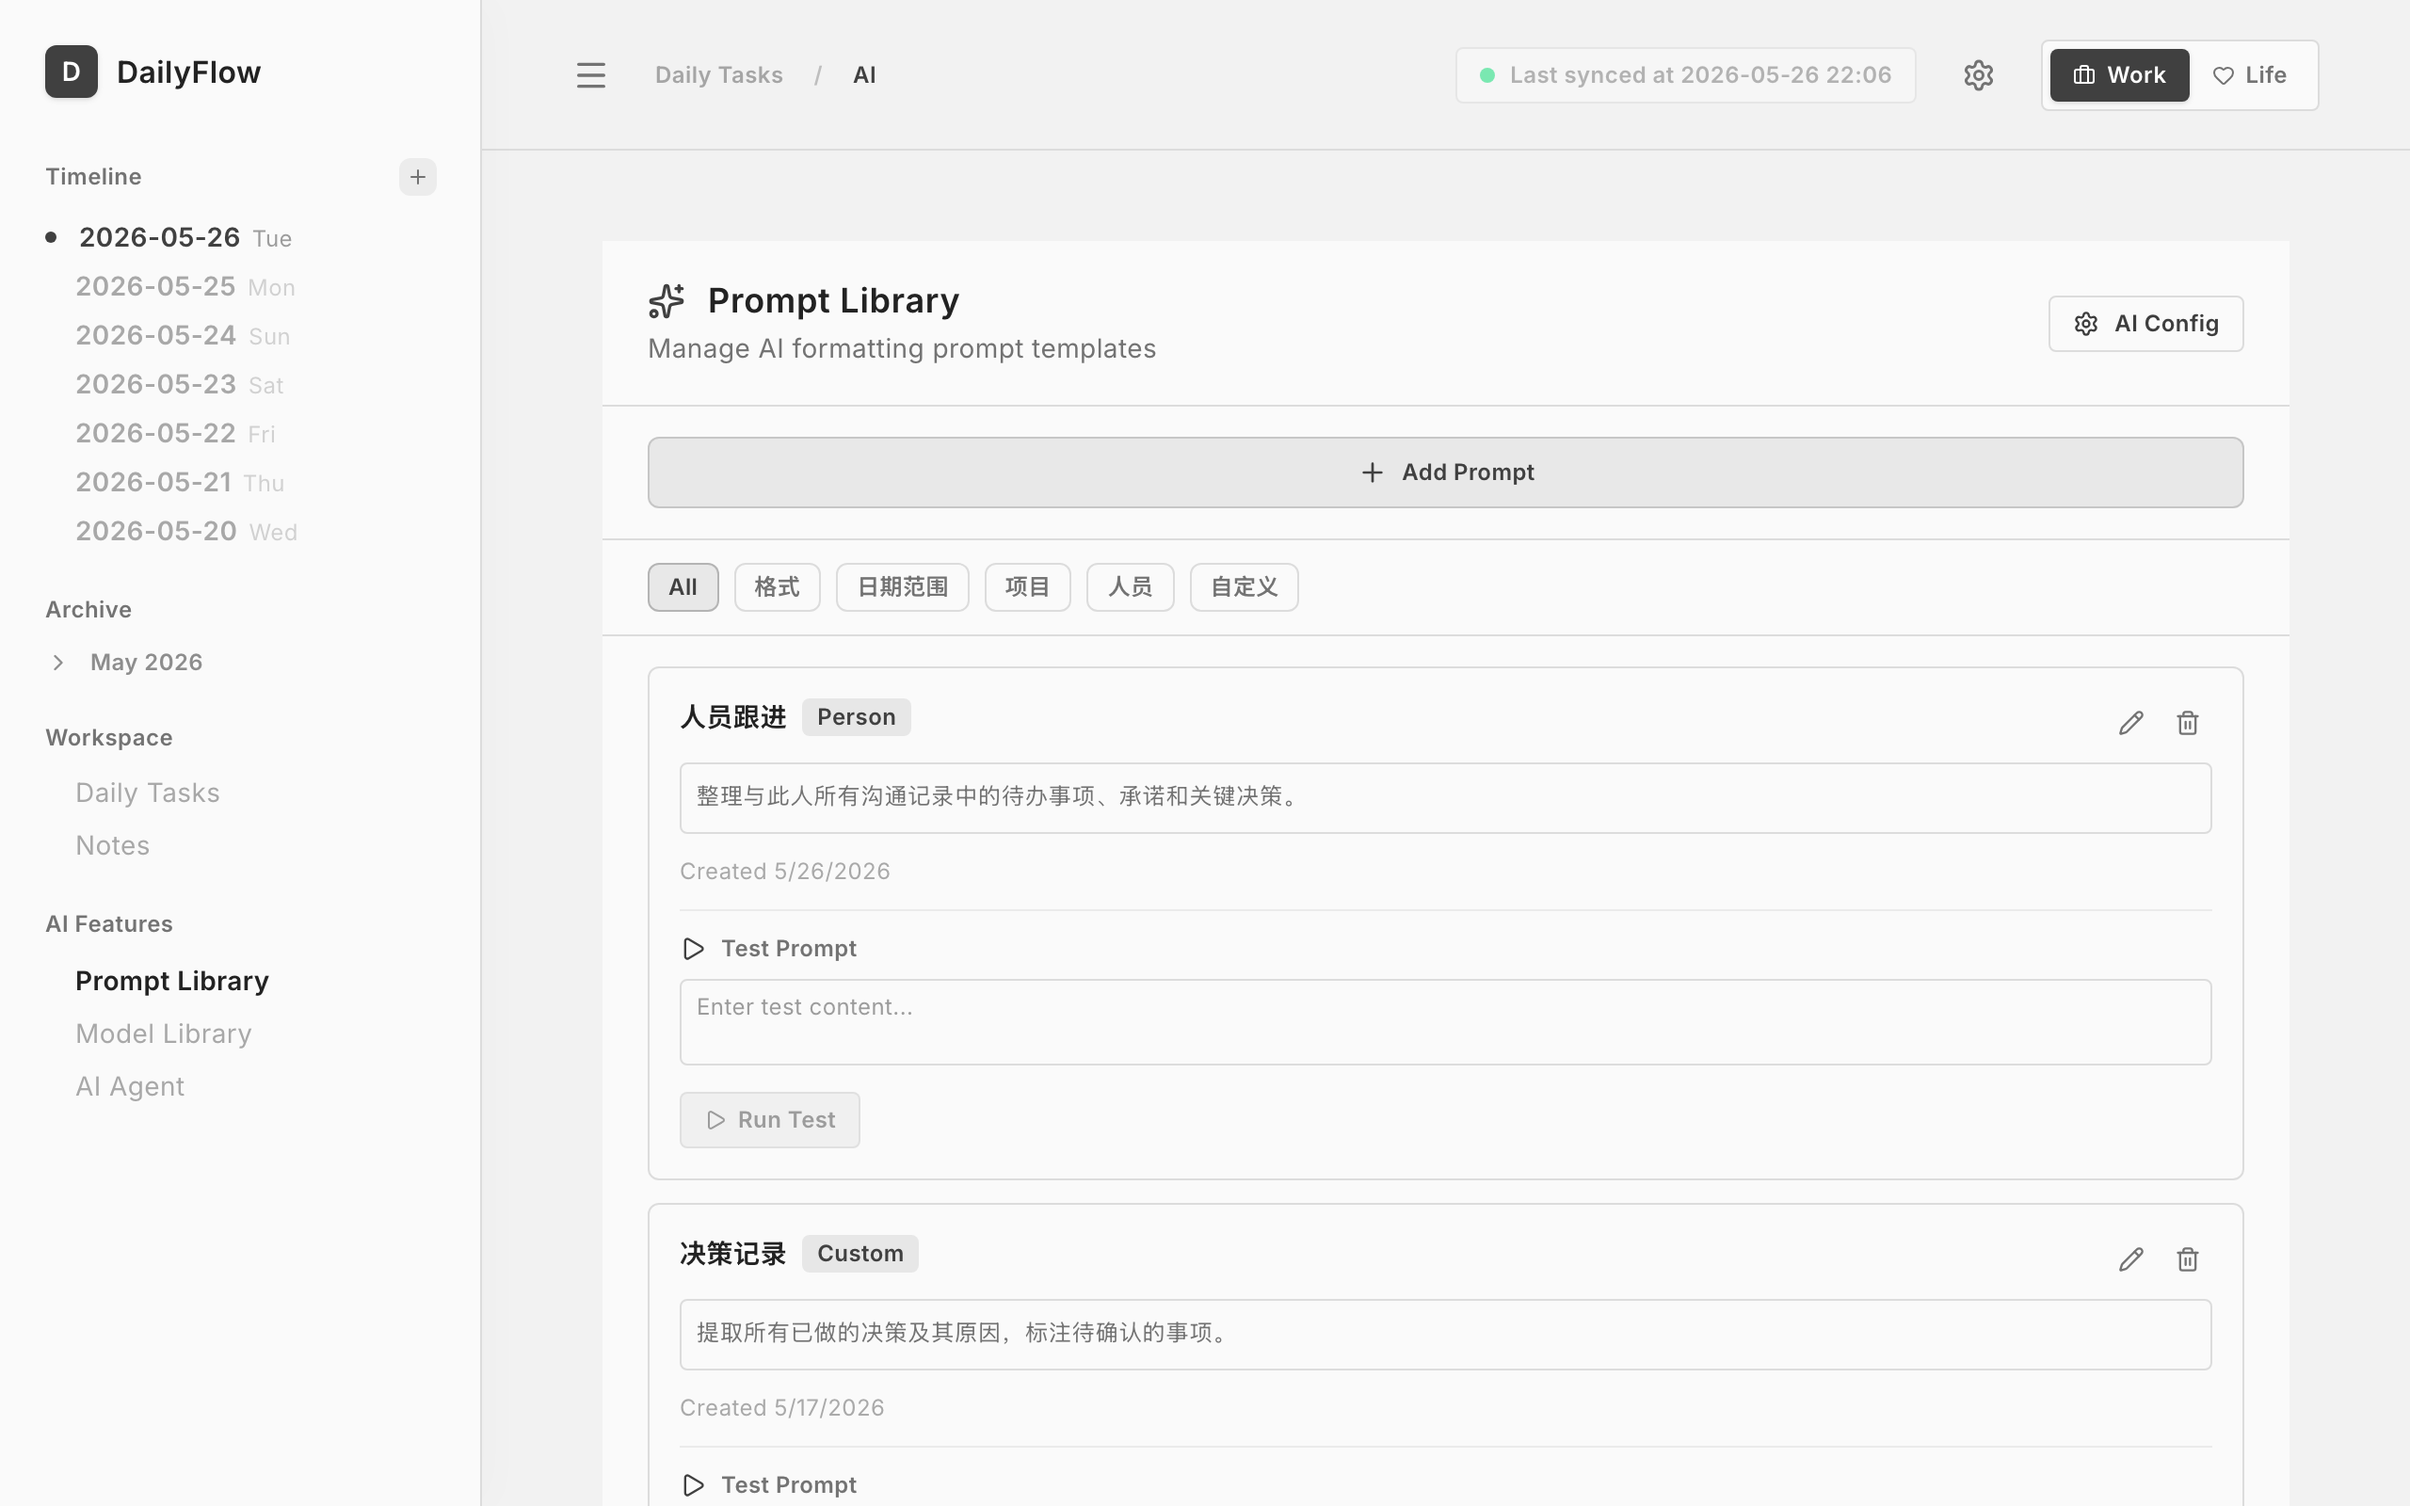
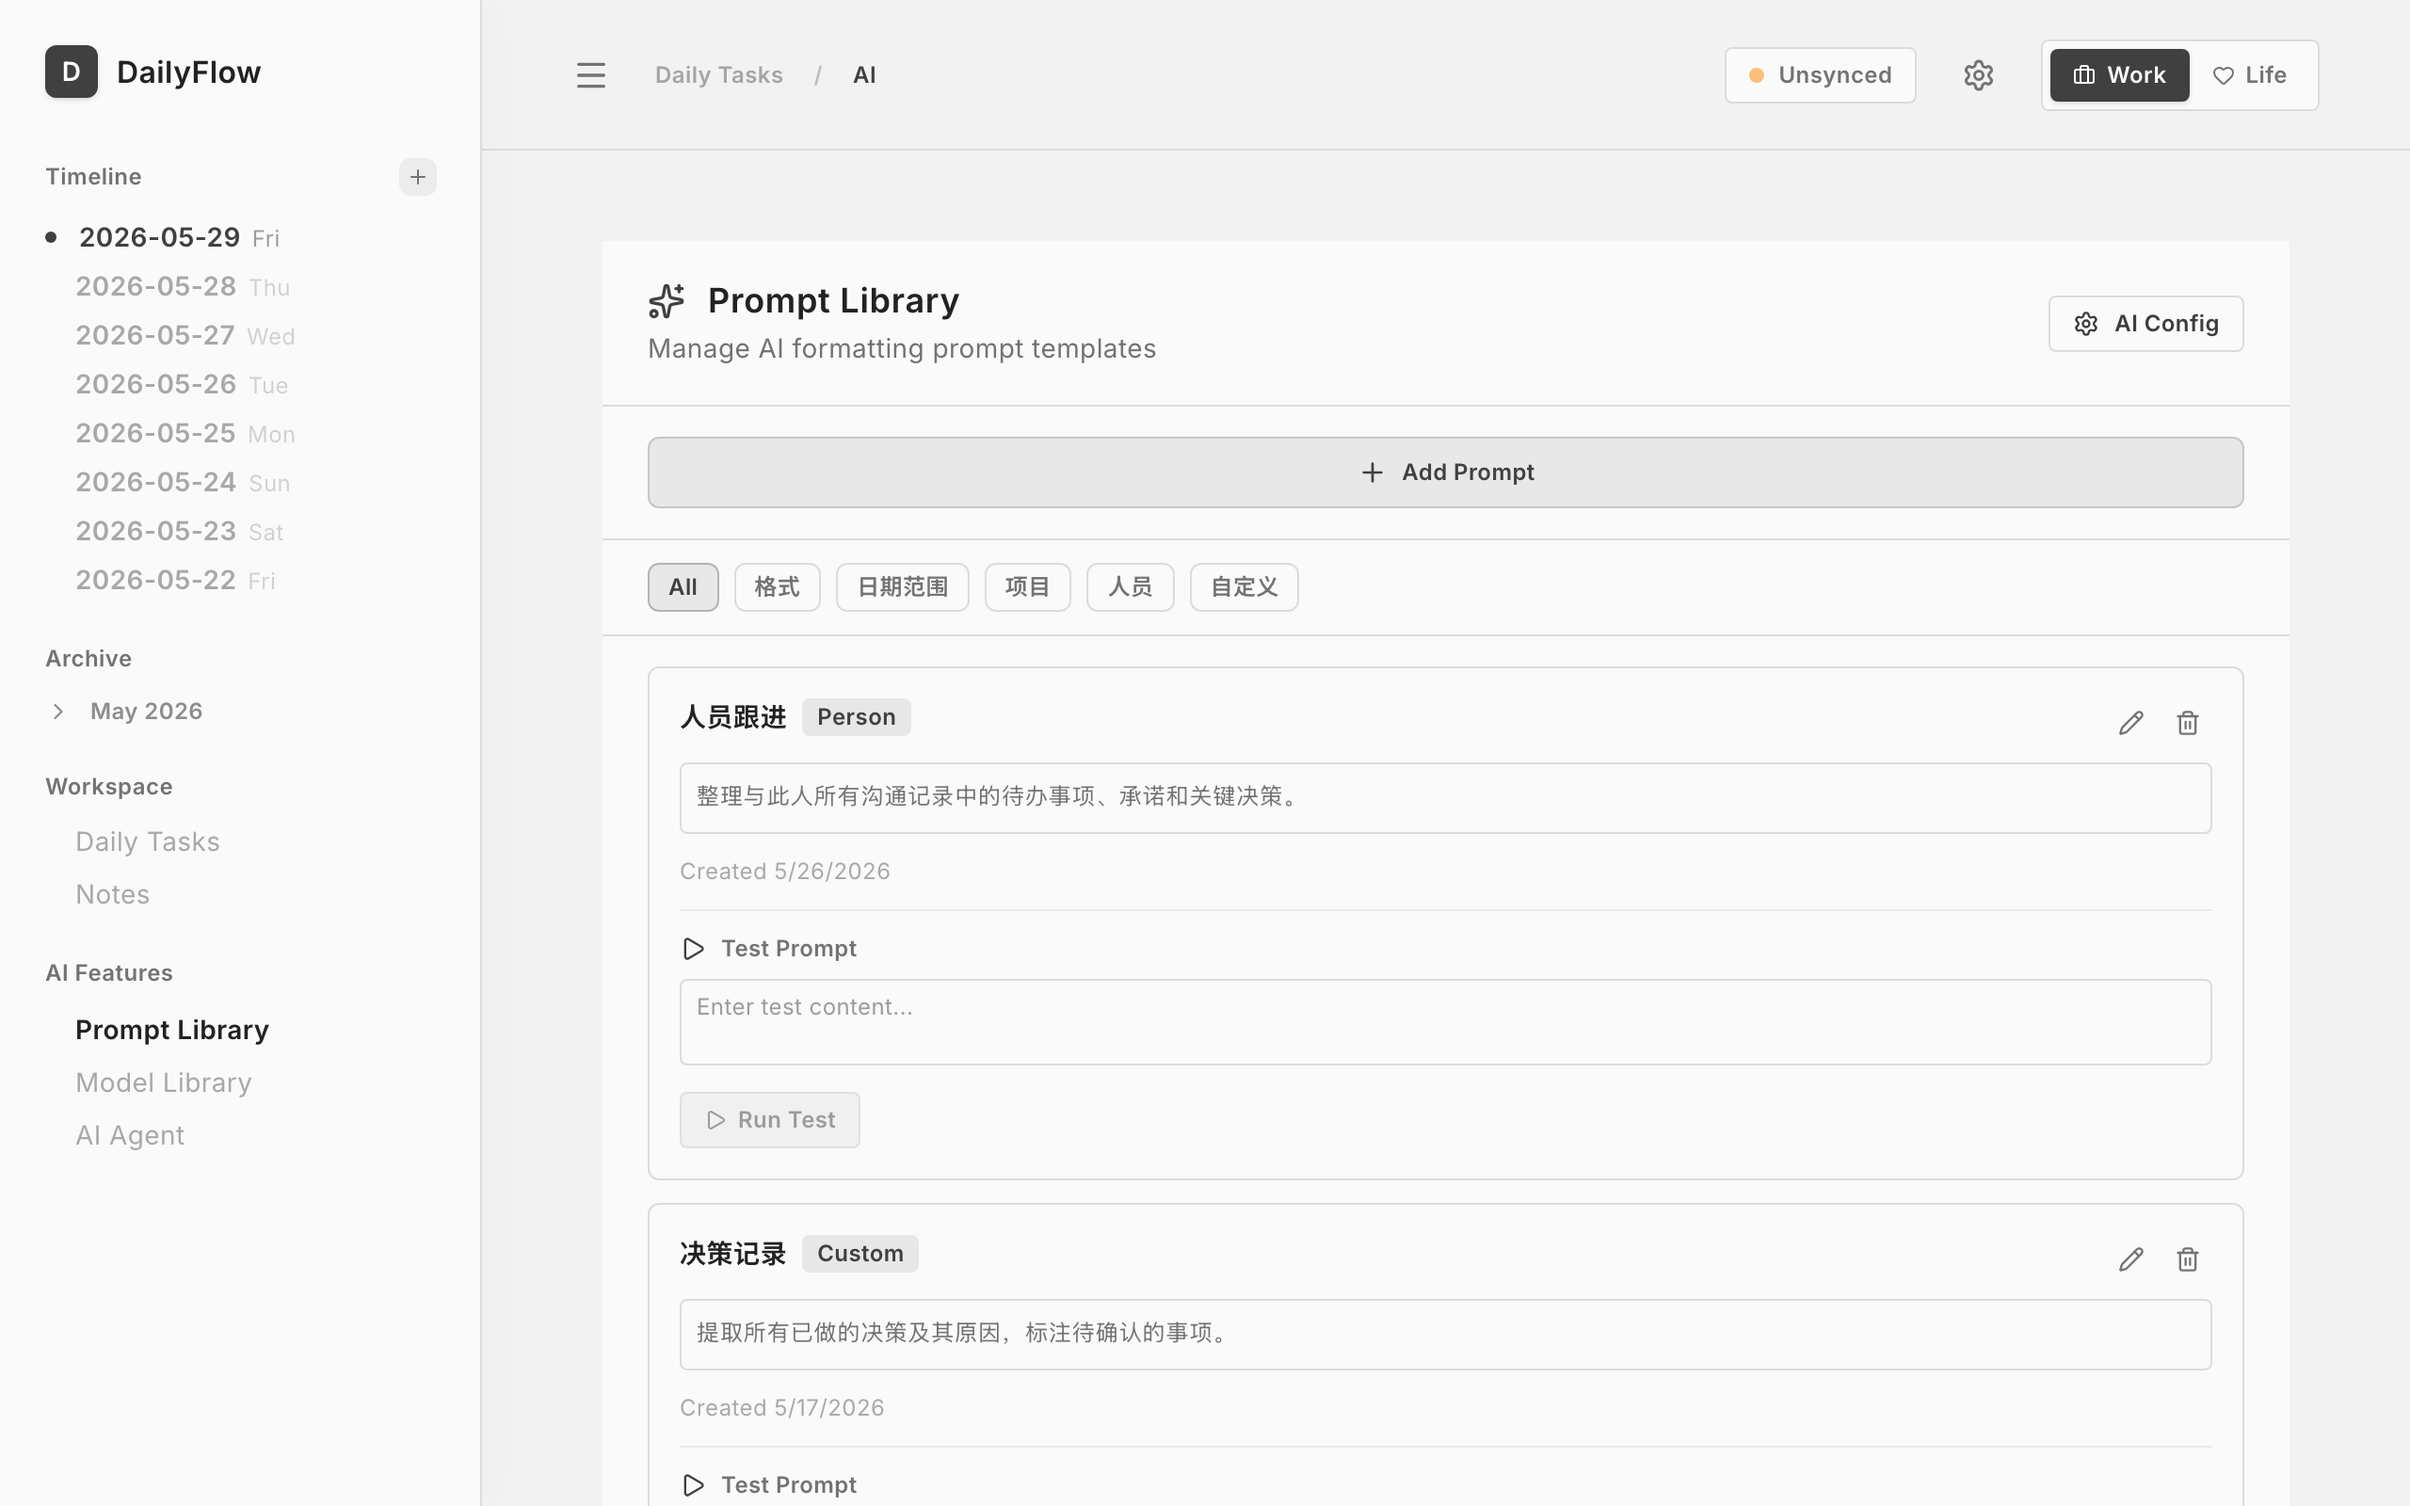
docs: refresh screenshots and bump version to 0.5.7
- Captured fresh screenshots from real running app
- Updated version badges from 0.5.5 to 0.5.7 in both README.md and README_EN.md

Changed region(s): [[0.0312, 0.375, 0.125, 0.7812], [0.625, 0.0312, 0.7812, 0.0625], [0.0938, 0.2188, 0.125, 0.25]]

diff --git a/README_EN.md b/README_EN.md
@@ -10,7 +10,7 @@
 
 ### Markdown-powered. Auto-migrates unfinished tasks. Stay focused on today.
 
-![Version](https://img.shields.io/badge/Version-0.5.5-blue?style=flat-square)
+![Version](https://img.shields.io/badge/Version-0.5.7-blue?style=flat-square)
 ![Platform](https://img.shields.io/badge/Platform-macOS%20%7C%20Windows%20%7C%20Linux-green?style=flat-square)
 ![License](https://img.shields.io/badge/License-Apache--2.0-lightgrey?style=flat-square)
 ![Tech](https://img.shields.io/badge/Stack-React%20%2B%20Tauri%20%2B%20TypeScript-purple?style=flat-square)

diff --git a/README.md b/README.md
@@ -10,7 +10,7 @@
 
 ### Markdown 驱动，自动迁移未完成任务，让你专注于当下
 
-![Version](https://img.shields.io/badge/Version-0.5.5-blue?style=flat-square)
+![Version](https://img.shields.io/badge/Version-0.5.7-blue?style=flat-square)
 ![Platform](https://img.shields.io/badge/Platform-macOS%20%7C%20Windows%20%7C%20Linux-green?style=flat-square)
 ![License](https://img.shields.io/badge/License-Apache--2.0-lightgrey?style=flat-square)
 ![Tech](https://img.shields.io/badge/Stack-React%20%2B%20Tauri%20%2B%20TypeScript-purple?style=flat-square)
